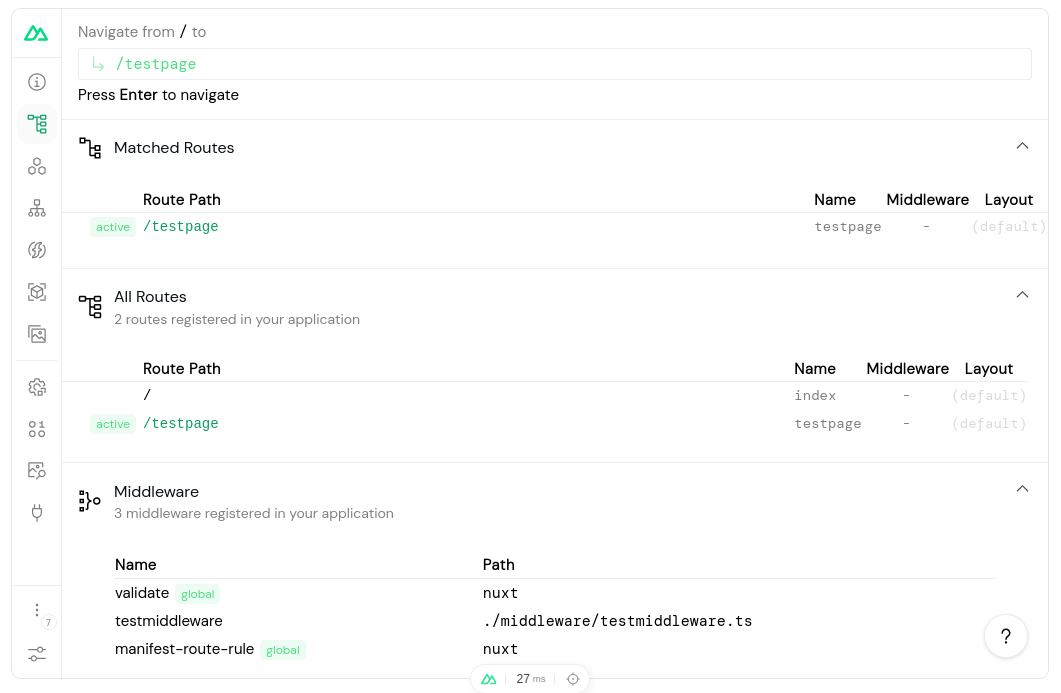
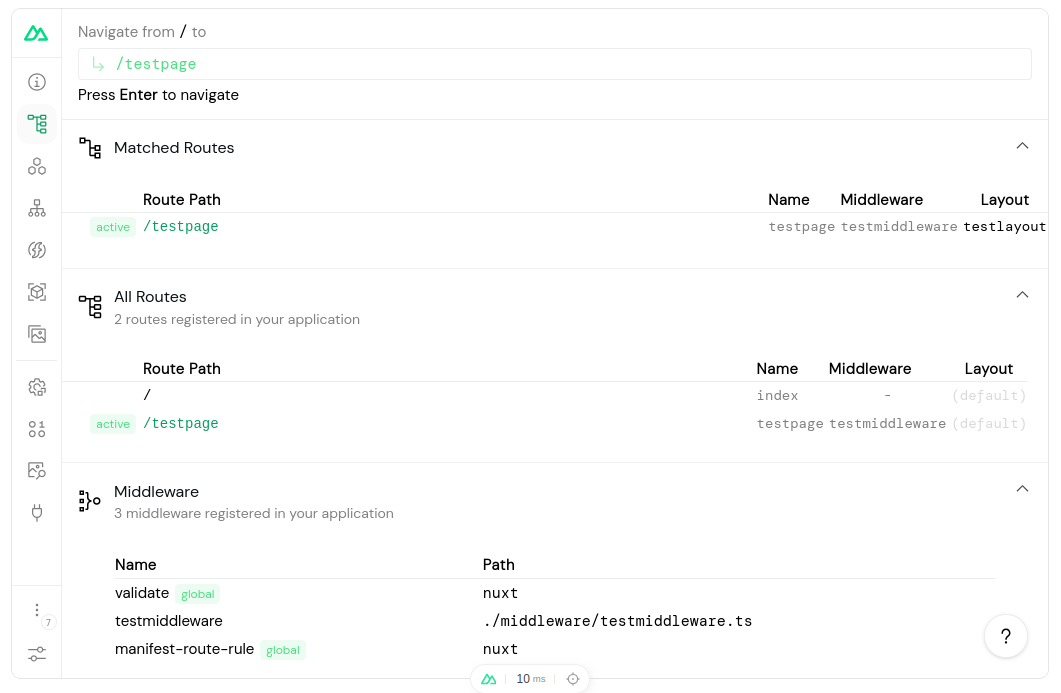
modified:   2-descrizione_delle_tecnologie.md 	modified:   filters/minted.py 	modified:   res/nuxt-devtools.png

diff --git a/filters/minted.py b/filters/minted.py
@@ -5,6 +5,8 @@ Usage:
     pandoc --filter ./minted.py -o myfile.tex myfile.md
 '''
 
+# https://github.com/nick-ulle/pandoc-minted/blob/master/pandoc-minted.py
+
 from string import Template
 from pandocfilters import toJSONFilter, RawBlock, RawInline
 

diff --git a/2-descrizione_delle_tecnologie.md b/2-descrizione_delle_tecnologie.md
@@ -42,7 +42,7 @@ vue -- Richiesta utente --> controller
 controller -.-> vue
 ```
 
-> L'<span id="architettura-nuxt">architettura</span> generale di una applicazione Nuxt. Si noti che il frontend Vue adotta il pattern *MVVM* quindi si hanno due modelli con interfacce potenzialmente distinte. Infatti nel modo tradizionale di usare Vue, backend e frontend potrebbero essere viste come due applicazioni a bassa coesione (basti pensare a come potrebbero essere realizzate in due linguaggi di programmaizone differenti) ed alto accoppiamento (nel senso che un cambiamento da un lato potrebbe richiederebbe un altro cambiamento dall'altro lato del sistema, per mantenere la coerenza). Nuxt si occupa appunto di gestire la **comunicazione tra i due models**: il model dei dati persistenti ed il model dell'applicazione che esegue nel browser, in modo da ottenere *loose coupling* e *high cohesion*.
+> L'architettura generale di una applicazione Nuxt. Si noti che il frontend Vue adotta il pattern *MVVM* quindi si hanno due modelli con interfacce potenzialmente distinte. Infatti nel modo tradizionale di usare Vue, backend e frontend potrebbero essere viste come due applicazioni a bassa coesione (basti pensare a come potrebbero essere realizzate in due linguaggi di programmaizone differenti) ed alto accoppiamento (nel senso che un cambiamento da un lato potrebbe richiederebbe un altro cambiamento dall'altro lato del sistema, per mantenere la coerenza). Nuxt si occupa appunto di gestire la **comunicazione tra i due models**: il model dei dati persistenti ed il model dell'applicazione che esegue nel browser, in modo da ottenere *loose coupling* e *high cohesion*.
 
 Lo slogan di Nuxt è "The Intuitive Vue Framework", che è in accordo con il suo obiettivo di semplificare la creazione di applicazioni web fornendo un'infrastruttura preconfigurata e pronta all'uso. In questo modo lo sviluppatore può concentrarsi da subito sulla logica dell'applicazione, piuttosto che sulla configurazione del progetto. È quindi ricalcato il punto di vista di David Heinemeier Hansson su Rails, il framework per applicazioni web per Ruby che ideò nel luglio 2004, per il quale sosteneva il principio "convention over configuration"[^convention-over-configuration].
 
@@ -52,7 +52,7 @@ Lo slogan di Nuxt è "The Intuitive Vue Framework", che è in accordo con il suo
 
 L'ecosistema Nuxt fa uso di un programma invocabile da linea di comando chiamato *nuxi*. È installabile globalmente su un sistema provvisto di Node eseguendo `npm i -g @nuxt/cli`, e dispone di vari sotto-comandi per la gestione del progetto. È consigliato usare `npx nuxi <sotto-comando>` per evitare conflitti tra le versioni dei pacchetti installati localmente e globalmente: anteponendo "npx" si userà, se presente, la versione locale `node_modules/@nuxt/cli`.
 
-##### `nuxi init <nome-progetto>`
+#### `nuxi init <nome-progetto>`
 
 È il comando per avviare un nuovo progetto nella directory `./<nome-progetto>`. Eseguendolo si dovrà scegliere il sistema di gestione dei pacchetti, che riguarderà il modo con il quale Nuxt ed anche gli agli altri pacchetti di terze parti saranno installati, e può essere tra:
 
@@ -64,7 +64,7 @@ L'ecosistema Nuxt fa uso di un programma invocabile da linea di comando chiamato
 
 Subito dopo c'è la scelta **Initialize git repository**, che eseguirà `git init` se selezionata. Nella trattazione che segue adotteremo Pnpm come package manager per la modalità di sviluppo e di test, Npm per la modalità di produzione e Git per il controllo di versione.
 
-##### `nuxi add`
+#### `nuxi add`
 
 Una volta inizializzato il progetto, questo è il comando per aggiungere funzionalità all'app. Prende come terzo argomento il tipo di template da aggiungere, che può essere tra:
 
@@ -76,34 +76,34 @@ Una volta inizializzato il progetto, questo è il comando per aggiungere funzion
 - **composable**: Una funzione, simile ad un hook React, che può essere usata in uno o più componenti Vue. È un modo per riutilizzare la logica di business in più parti dell'applicazione.
 - **plugin**: Uno script typescript che viene eseguito prima di inizializzare l'applicazione Vue. Utile per l'inizializzazione di componenti software di terze parti.
 
-##### `nuxi dev`
+Questi template sono dettagliati nel paragrafo [Directories](#directories).
+
+#### `nuxi dev`
 
 È il comando per avviare il server di sviluppo, che permette di testare l'applicazione in locale. Di default il server è accessibile alla rotta `http://localhost:3000`, ma si può cambiare la porta con l'opzione `--port <numero-porta>`. Il server di sviluppo è dotato di *hot reloading*, cioè la capacità di ricaricare automaticamente la pagina web quando si salvano i file del progetto, in modo da velocizzare il ciclo di sviluppo.
 
-##### `nuxi devtools`
+#### `nuxi devtools`
 
 Abilita o disabilita l'iniezione degli script Devtools nell'app Vue, quando è lanciata con `nuxi dev`. Sono un set di strumenti il debugging di applicazioni Nuxt, aggiuntivi a quelli già presenti nei browser moderni[^devtools].
 
+> ![Devtools di Nuxt. In questa sezione è mostrato il grafo delle pagine agganciate al Vue-router, i middleware e i layout per ogni pagina. È presente inoltre un indicatore che mostra come il rendering della pagina `testpage` abbia impiegato 10ms.](./res/nuxt-devtools.png){width=70%}
 
 [^devtools]: Come quelli di [Firefox](https://firefox-source-docs.mozilla.org/devtools-user/), dei derivati di [Chromium](https://developer.chrome.com/docs/devtools?hl=it), di [Safari](https://developer.apple.com/safari/tools/) ed di [Edge](https://learn.microsoft.com/en-us/microsoft-edge/devtools-guide-chromium/overview).
 
+#### `nuxi test`
 
-
-
-##### `nuxi test`
-
-Esegue i test definiti in `tests`[^home-directory]. Richiede l'installazione di `@nuxt/test-utils` come dipendenza di sviluppo. 
+Esegue i test definiti in `~/tests`[^home-directory]. Richiede l'installazione di `@nuxt/test-utils` come dipendenza di sviluppo. 
 
 
 [^home-directory]: Nella trattazione si userà la convenzione, usata anche da Nuxt, di indicare con `~` la directory di radice del progetto, dove sono presenti i file `nuxt.config.ts` e `package.json`.
 
-##### `nuxi build`
+#### `nuxi build`
 
-##### `nuxi module`
+#### `nuxi module`
 
+### Directories
 
-#### Directories
-
+Viene di seguito esposta una panoramica di tutte le directories che si possono trovare in un progetto Nuxt:
 
 ```bash
 assets/					# Risorse statiche come immagini, media e font
@@ -123,13 +123,33 @@ package.json
 tsconfig.json
 ```
 
-##### Layouts
+#### Pages
 
-##### Server
+rotte
 
-propriamente backend
+routing
 
-#### tooling e Typescript "out of the box"
+#### Components
+
+Componenti *built-in*:
+
+- `<ClientOnly>`
+- `<DevOnly>`
+- `<NuxtErrorBoundary>`
+- `<NuxtImg>`
+- `<NuxtLayout>`
+- `<NuxtLink>`
+- `<NuxtLoadingIndicator>`
+- `<NuxtPicture>`
+- `<NuxtRouteAnnouncer>`
+- `<NuxtWelcome>`
+- `<ServerPlaceholder>`
+
+#### Layouts
+
+#### Server
+
+####
 
 
 tsconfig.json
@@ -147,7 +167,7 @@ tutto questo manualmente!
 
 Durante la fase di progettazione, diversi tipi di applicazione suggeriscono diverse esigenze, e Nuxt si dimostra versatile a partire dalle modalità di rendering che offre.
 
-In questo contesto, con rendering di una pagina web non si intende il processo di disegno dei pixel sullo schermo, del quale generalmente si occuperà il browser web delegando al sistema operativo la gestione dell'hardware. Qui con rendering si intende il processo di generazione del codice HTML, CSS e Javascript che costituisce la pagina web, e che viene inviato al client per essere visualizzato.
+In questo contesto, con rendering di una pagina web non si intende il processo di disegno dei pixel sullo schermo, del quale generalmente si occuperà il browser web delegando al sistema operativo la gestione dell'hardware. Qui con rendering si intende il processo di generazione del codice HTML, CSS e Javascript che costituisce la pagina web.
 
 #### Client Side Rendering
 
